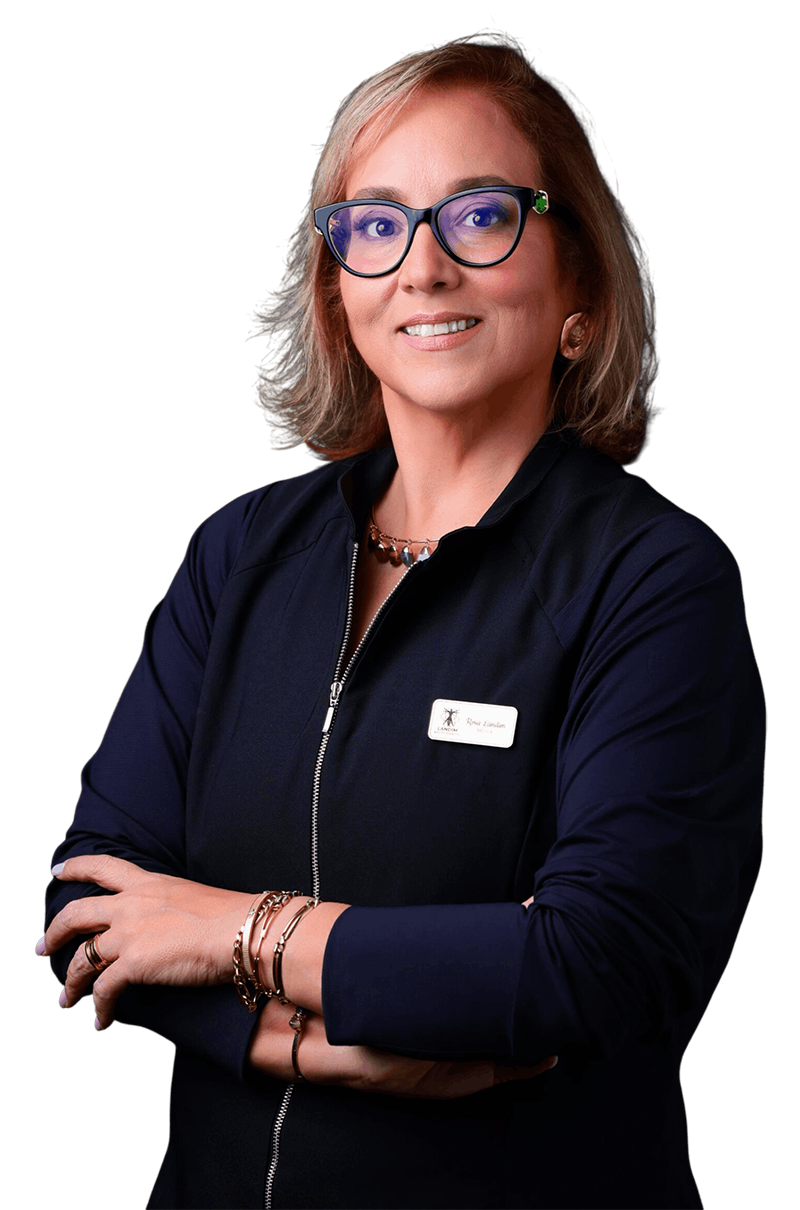
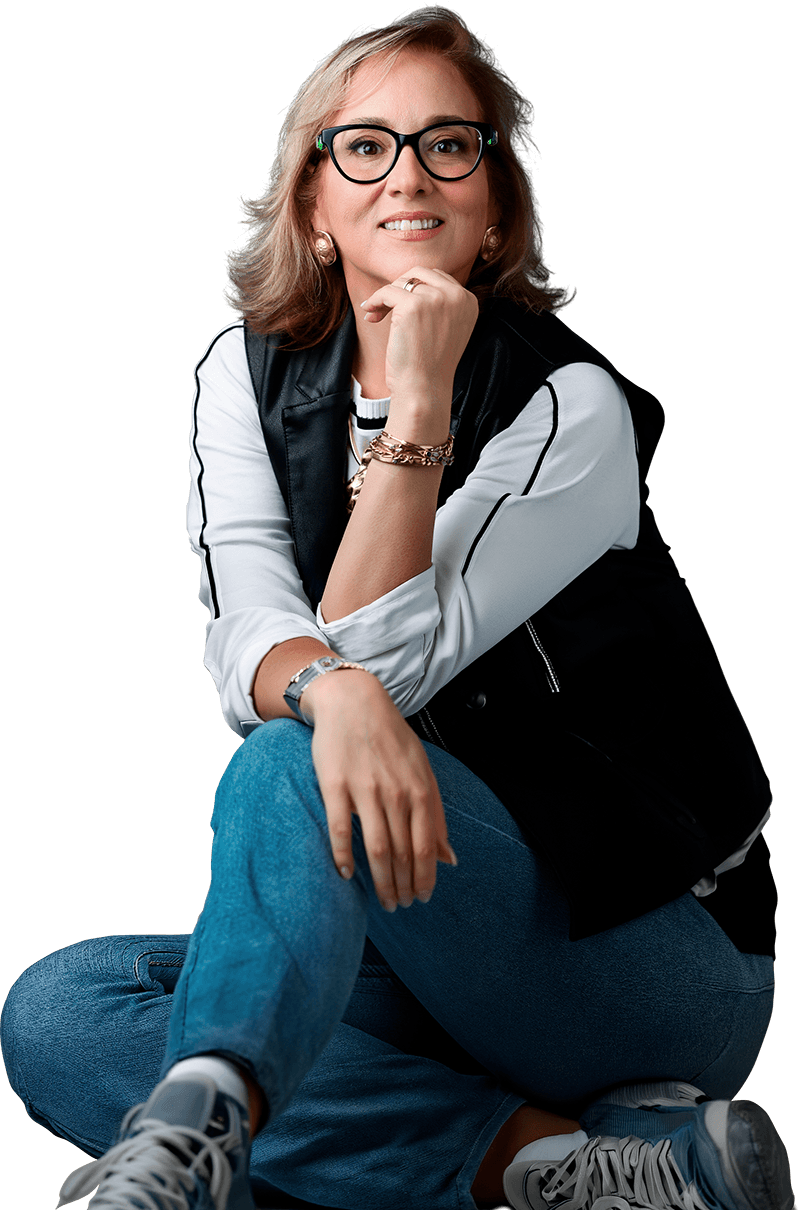
Edição 30-07-26

diff --git a/index.html b/index.html
@@ -93,13 +93,13 @@
       </div>
     </div>
 
-    <div class="top-0 left-0 absolute linear-to bg-gradient-to-t from-black/80 w-full h-full lg:hidden"></div>
+    <div class="top-0 left-0 absolute linear-to bg-gradient-to-t from-black w-full h-full lg:hidden"></div>
 
     <!-- Foto Desktop -->
-      <img src="./img/dra-landim.png" alt="Dra. Rosa Landim" class="w-fit object-contain h-138 absolute top-6 right-10 max-md:hidden" style="animation: fadeIn 2s ease-in-out;">
+      <img src="./img/dra-landim.png" alt="Dra. Rosa Landim" class="w-fit object-contain h-186 absolute lg:top-16 md:top-10  lg:right-10 md:-right-18  max-md:hidden" style="animation: fadeIn 2s ease-in-out;">
 
     <!-- Foto Mobile -->      
-      <img src="./img/dra-landim-mobile.png" alt="Dra. Rosa Landim" class="w-fit object-contain h-195 absolute top-6 mx-auto md:hidden" style="animation: fadeIn 2s ease-in-out;">
+      <img src="./img/dra-landim-mobile.png" alt="Dra. Rosa Landim" class="w-fit object-contain w-full h-auto absolute top-6 mx-auto md:hidden" style="animation: fadeIn 2s ease-in-out;">
     
 
   </div>
